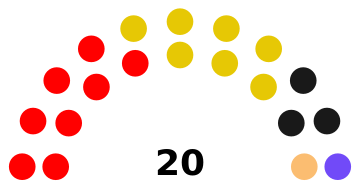
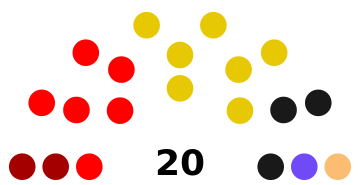
R

diff --git a/_site/townpoliticalview.html b/_site/townpoliticalview.html
@@ -7,23 +7,27 @@
       <link rel="stylesheet" href="/assets/base.css">
       <link rel="stylesheet" href="/assets/politics.css">
       <title>
-          The state of Town politics &middot; The TOOMwn Page
+          The state of Town politics &middot; The TOOMwn Constitution
       </title>
     </head>
 
     <body>
       <div class="container content">
         <header class="masthead">
-    <a href="https://the-toomwn.github.io/" id="titleheader">The state of Town politics</a>
+    <a href="https://constitution.toomwn.xyz" id="titleheader">The state of Town politics</a>
 </header>
 <hr>
+        <div id="townpoliticsdiv">
         <main>
           <p><img src="assets/townpolitics.png" id="townpolitics" /></p>
 
 <h1 id="list-of-parties">List of parties</h1>
 
 <h2 id="major-parties">Major parties</h2>
-<p>Quartz: 8 - #FF0000</p>
+<p>Quartz: 6 - #FF0000</p>
+<ul>
+  <li>Quartz Radicals: 2 - #A50000</li>
+</ul>
 
 <p>Jekyll: 7 - #E6C805</p>
 
@@ -32,7 +36,7 @@
 
 <p>Zolist: 1 - #714AF8</p>
 
-<p>Wixer: 2 - #FBBD71</p>
+<p>Wixer: 1 - #FBBD71</p>
 
 <p><a href="updatepolitics.html">How to update</a></p>
 
@@ -43,7 +47,7 @@
 <div id="footer">
 <p>No rights reserved!</p>
 </div>
-
+</div>
     </body>
 
     <script src="/assets/base.js"></script>

diff --git a/_site/votes/Constitution Ratification.html b/_site/votes/Constitution Ratification.html
@@ -8,14 +8,14 @@
       <meta name="viewport" content="width=device-width, initial-scale=1.0" />
       <link rel="stylesheet" href="/assets/base.css">
       <title>
-          Constitution Ratification &middot; The TOOMwn Page
+          Constitution Ratification &middot; The TOOMwn Constitution
       </title>
     </head>
 
     <body>
       <div class="container content">
         <header class="masthead">
-    <a href="https://the-toomwn.github.io/" id="titleheader">Constitution Ratification</a>
+    <a href="https://constitution.toomwn.xyz" id="titleheader">Constitution Ratification</a>
 </header>
 <hr>
         <main>

diff --git a/_site/votes/Chen Agreement.html b/_site/votes/Chen Agreement.html
@@ -8,14 +8,14 @@
       <meta name="viewport" content="width=device-width, initial-scale=1.0" />
       <link rel="stylesheet" href="/assets/base.css">
       <title>
-          spicata-Mayo agreement &middot; The TOOMwn Page
+          spicata-Mayo agreement &middot; The TOOMwn Constitution
       </title>
     </head>
 
     <body>
       <div class="container content">
         <header class="masthead">
-    <a href="https://the-toomwn.github.io/" id="titleheader">spicata-Mayo agreement</a>
+    <a href="https://constitution.toomwn.xyz" id="titleheader">spicata-Mayo agreement</a>
 </header>
 <hr>
         <main>

diff --git a/_site/updatepolitics.html b/_site/updatepolitics.html
@@ -8,14 +8,14 @@
       <meta name="viewport" content="width=device-width, initial-scale=1.0" />
       <link rel="stylesheet" href="/assets/base.css">
       <title>
-          A guide on how to update &middot; The TOOMwn Page
+          A guide on how to update &middot; The TOOMwn Constitution
       </title>
     </head>
 
     <body>
       <div class="container content">
         <header class="masthead">
-    <a href="https://the-toomwn.github.io/" id="titleheader">A guide on how to update</a>
+    <a href="https://constitution.toomwn.xyz" id="titleheader">A guide on how to update</a>
 </header>
 <hr>
 

diff --git a/_site/index.html b/_site/index.html
@@ -8,14 +8,14 @@
       <meta name="viewport" content="width=device-width, initial-scale=1.0" />
       <link rel="stylesheet" href="/assets/base.css">
       <title>
-          The Town Constitution &middot; The TOOMwn Page
+          The Town Constitution &middot; The TOOMwn Constitution
       </title>
     </head>
 
     <body>
       <div class="container content">
         <header class="masthead">
-    <a href="https://the-toomwn.github.io/" id="titleheader">The Town Constitution</a>
+    <a href="https://constitution.toomwn.xyz" id="titleheader">The Town Constitution</a>
 </header>
 <hr>
 

diff --git a/_site/votes/Speaker Vote.html b/_site/votes/Speaker Vote.html
@@ -8,14 +8,14 @@
       <meta name="viewport" content="width=device-width, initial-scale=1.0" />
       <link rel="stylesheet" href="/assets/base.css">
       <title>
-          Speaker Vote &middot; The TOOMwn Page
+          Speaker Vote &middot; The TOOMwn Constitution
       </title>
     </head>
 
     <body>
       <div class="container content">
         <header class="masthead">
-    <a href="https://the-toomwn.github.io/" id="titleheader">Speaker Vote</a>
+    <a href="https://constitution.toomwn.xyz" id="titleheader">Speaker Vote</a>
 </header>
 <hr>
         <main>

diff --git a/_site/votes/Mayo Vote.html b/_site/votes/Mayo Vote.html
@@ -8,14 +8,14 @@
       <meta name="viewport" content="width=device-width, initial-scale=1.0" />
       <link rel="stylesheet" href="/assets/base.css">
       <title>
-          Mayo Vote &middot; The TOOMwn Page
+          Mayo Vote &middot; The TOOMwn Constitution
       </title>
     </head>
 
     <body>
       <div class="container content">
         <header class="masthead">
-    <a href="https://the-toomwn.github.io/" id="titleheader">Mayo Vote</a>
+    <a href="https://constitution.toomwn.xyz" id="titleheader">Mayo Vote</a>
 </header>
 <hr>
         <main>

diff --git a/_layouts/politics.html b/_layouts/politics.html
@@ -14,10 +14,11 @@
     <body>
       <div class="container content">
         {% include heading.html %}
+        <div id="townpoliticsdiv">
         <main>
           {{ content }}
         </main>
-        {% include footer.html %}
+        {% include footer.html %}</div>
     </body>
 
     <script src="/assets/base.js"></script>

diff --git a/_site/assets/base.js b/_site/assets/base.js
@@ -25,7 +25,7 @@ laws_amendments = [
 
 window.onload = () => {
     //loop through latest news and create elements
-    for (var i = 0; i < laws_amendments.length; i++) {
+    for (var i = laws_amendments.length-1; i>= 0; i--) {
         //create elements
         var laws_item = document.createElement("div");
 

diff --git a/_includes/heading.html b/_includes/heading.html
@@ -1,4 +1,4 @@
 <header class="masthead">
-    <a href="https://the-toomwn.github.io/" id="titleheader">{{ page.title }}</a>
+    <a href="https://constitution.toomwn.xyz" id="titleheader">{{ page.title }}</a>
 </header>
 <hr>

diff --git a/_site/assets/base.css b/_site/assets/base.css
@@ -11,6 +11,10 @@
     background-color: #181A1B;
 }
 
+ul {
+    list-style-position: inside;
+}
+
 header {
     text-align: center;
     margin: 5px;

diff --git a/assets/base.css b/assets/base.css
@@ -11,6 +11,10 @@
     background-color: #181A1B;
 }
 
+ul {
+    list-style-position: inside;
+}
+
 header {
     text-align: center;
     margin: 5px;
